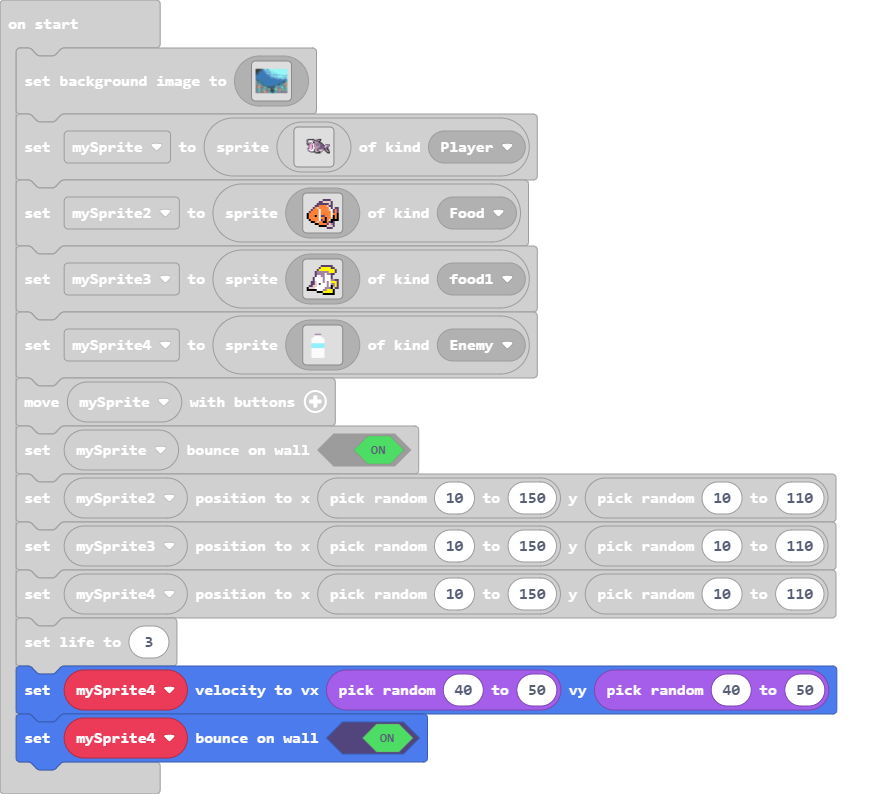
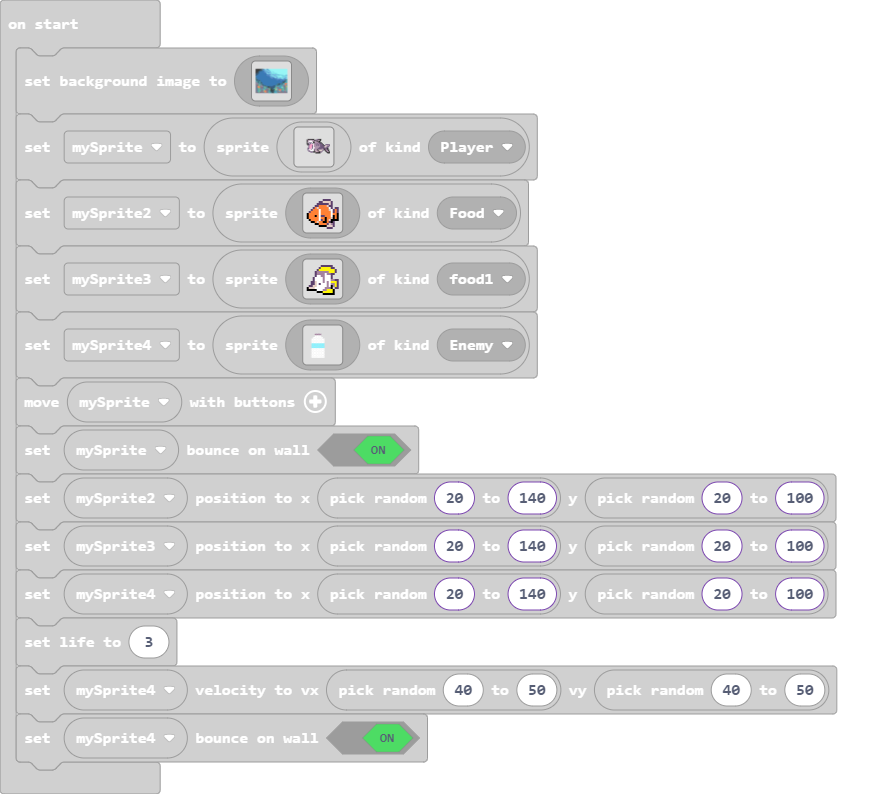
Update main.ts, main.blocks

diff --git a/main.ts b/main.ts
@@ -218,9 +218,9 @@ let mySprite4 = sprites.create(img`
     `, SpriteKind.Enemy)
 controller.moveSprite(mySprite)
 mySprite.setBounceOnWall(true)
-mySprite2.setPosition(randint(10, 150), randint(10, 110))
-mySprite3.setPosition(randint(10, 150), randint(10, 110))
-mySprite4.setPosition(randint(10, 150), randint(10, 110))
+mySprite2.setPosition(randint(20, 140), randint(20, 100))
+mySprite3.setPosition(randint(20, 140), randint(20, 100))
+mySprite4.setPosition(randint(20, 140), randint(20, 100))
 info.setLife(3)
 mySprite4.setVelocity(randint(40, 50), randint(40, 50))
 mySprite4.setBounceOnWall(true)
